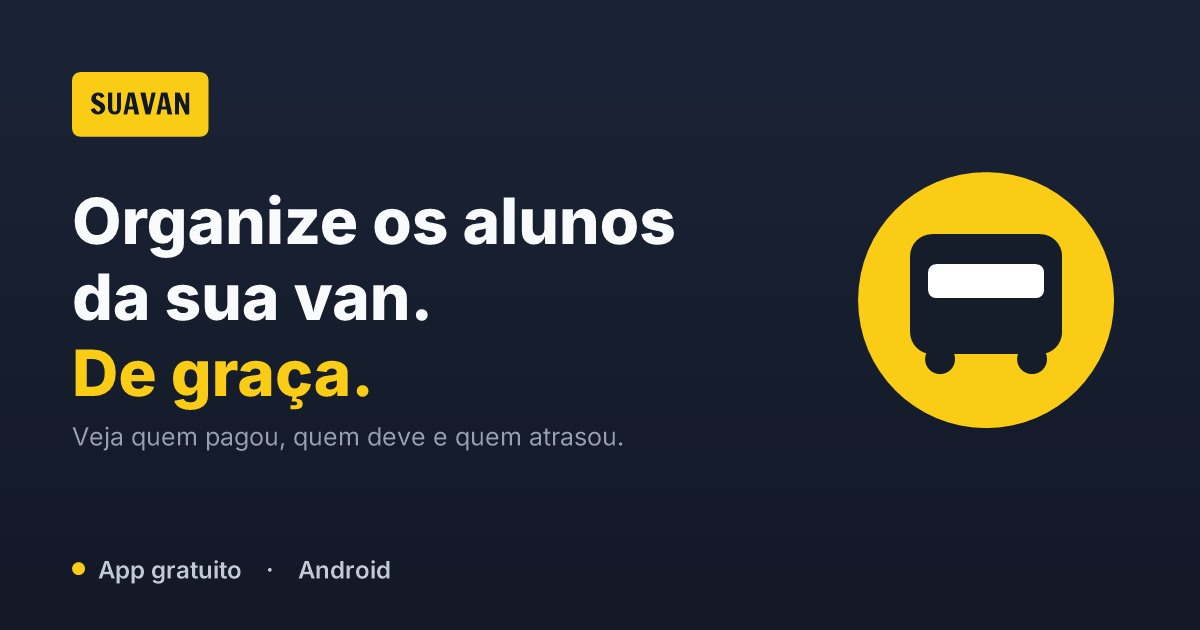
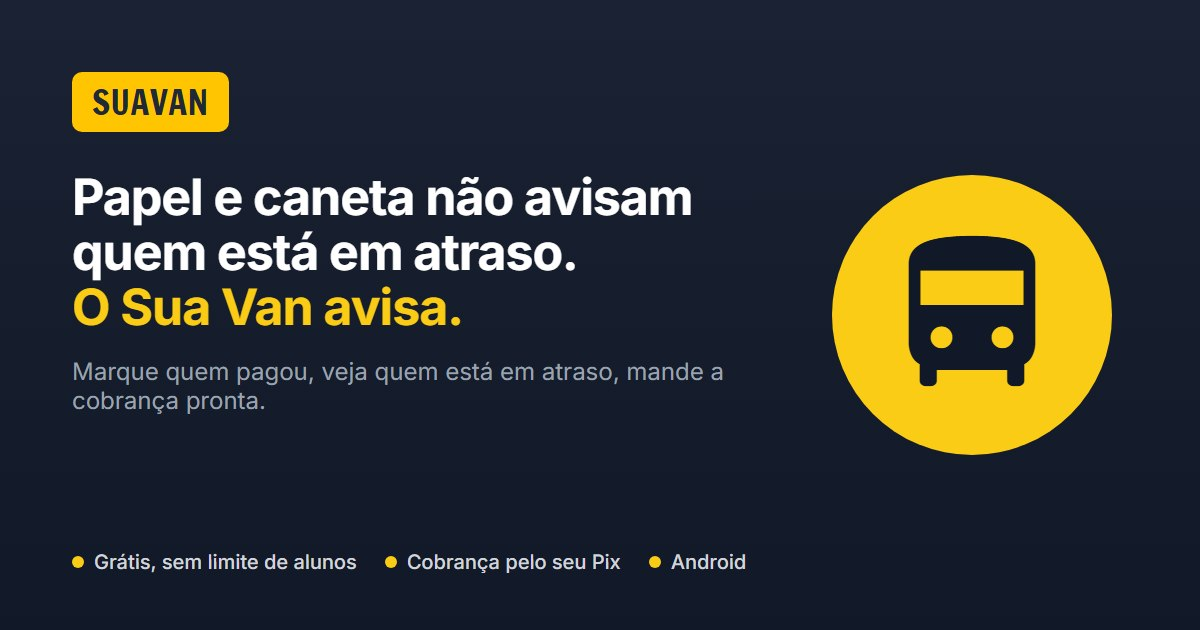
clarity: fila de eventos antes do aceite + og:image refeita
consent.js (identico nos 3 repos): um stub enfileira as chamadas
window.clarity(...) feitas antes de "Aceitar", sem mandar nada para a
rede; ao aceitar, a tag consome a fila e recebe clarity('consent'); ao
recusar, a fila morre e o stub vira no-op. O opt-in continua sendo o
portao.

A imagem de compartilhamento passa a dizer o que o hero novo diz.

diff --git a/consent.js b/consent.js
@@ -18,6 +18,11 @@
  * suavan-motorista), porque cada um é um GitHub Pages próprio, num subdomínio
  * próprio. Servir de um só criaria dependência cross-origin justamente na peça
  * de privacidade. **Ao alterar, alterar nos três.**
+ *
+ * 16/09/2026: fila de eventos antes do aceite (ver queueStub) e sinal
+ * clarity('consent') depois dele. O aceite fica guardado POR SUBDOMÍNIO
+ * (localStorage é por origem): quem aceita em suavan.com.br vê o aviso de novo
+ * em motorista. e pais. — é o preço de três origens, não um defeito.
  */
 (function () {
   'use strict';
@@ -25,6 +30,17 @@
   var CLARITY_PROJECT = 'xm3hw0zsli';
   var STORAGE_KEY = 'suavan_consent_analytics'; // 'accepted' | 'declined'
   var POLICY_URL = 'https://suavan.com.br/privacidade';
+
+  /* FILA ANTES DO ACEITE (16/09/2026). As páginas chamam window.clarity('event', …)
+     e window.clarity('set', …) nos cliques (cta_motorista, acesso_whatsapp_enviar…).
+     Sem isto, tudo que acontecia ANTES de "Aceitar" — inclusive o clique que
+     motivou o aceite — se perdia, porque window.clarity só existia depois do
+     script carregar. O stub abaixo é o mesmo enfileirador do snippet oficial:
+     guarda as chamadas em memória e NÃO envia nada a lugar nenhum. Ao aceitar,
+     a tag do Clarity consome a fila; ao recusar, a fila é descartada e o stub
+     vira no-op. Assim o opt-in continua sendo o portão: sem aceite, zero rede. */
+  function queueStub() { (queueStub.q = queueStub.q || []).push(arguments); }
+  if (typeof window.clarity !== 'function') { window.clarity = queueStub; window.clarity.q = queueStub.q = []; }
 
   /* Leitura/escrita tolerantes: navegação privativa e bloqueio de cookies
      fazem localStorage lançar. Falhar aqui não pode quebrar a página — e, na
@@ -55,6 +71,17 @@
       y = l.getElementsByTagName(r)[0];
       y.parentNode.insertBefore(t, y);
     })(window, document, 'clarity', 'script', CLARITY_PROJECT);
+    /* API de consentimento do Clarity: registra que o visitante aceitou. É
+       redundante com o portão acima (o script nem carregava antes), mas deixa
+       o consentimento visível no painel e cobre o caso de o projeto ganhar a
+       opção "exigir consentimento de cookies". */
+    window.clarity('consent');
+  }
+
+  /* Recusou: a fila em memória é descartada e as páginas passam a falar com
+     um no-op — nunca com a rede. */
+  function dropQueue() {
+    window.clarity = function () {};
   }
 
   function removeBanner(el) {
@@ -115,7 +142,8 @@
     no.addEventListener('click', function () {
       saveChoice('declined');
       removeBanner(wrap);
-      /* Nada a desligar: o Clarity nunca foi carregado. */
+      /* Nada a desligar: o Clarity nunca foi carregado. A fila morre aqui. */
+      dropQueue();
     });
 
     yes.addEventListener('click', function () {
@@ -138,7 +166,9 @@
   var choice = readChoice();
   if (choice === 'accepted') {
     loadClarity();
-  } else if (choice !== 'declined') {
+  } else if (choice === 'declined') {
+    dropQueue();
+  } else {
     /* Sem escolha registrada: pergunta. Enquanto não houver aceite, nada é
        carregado — o estado inicial é "não rastrear". */
     showBanner();
